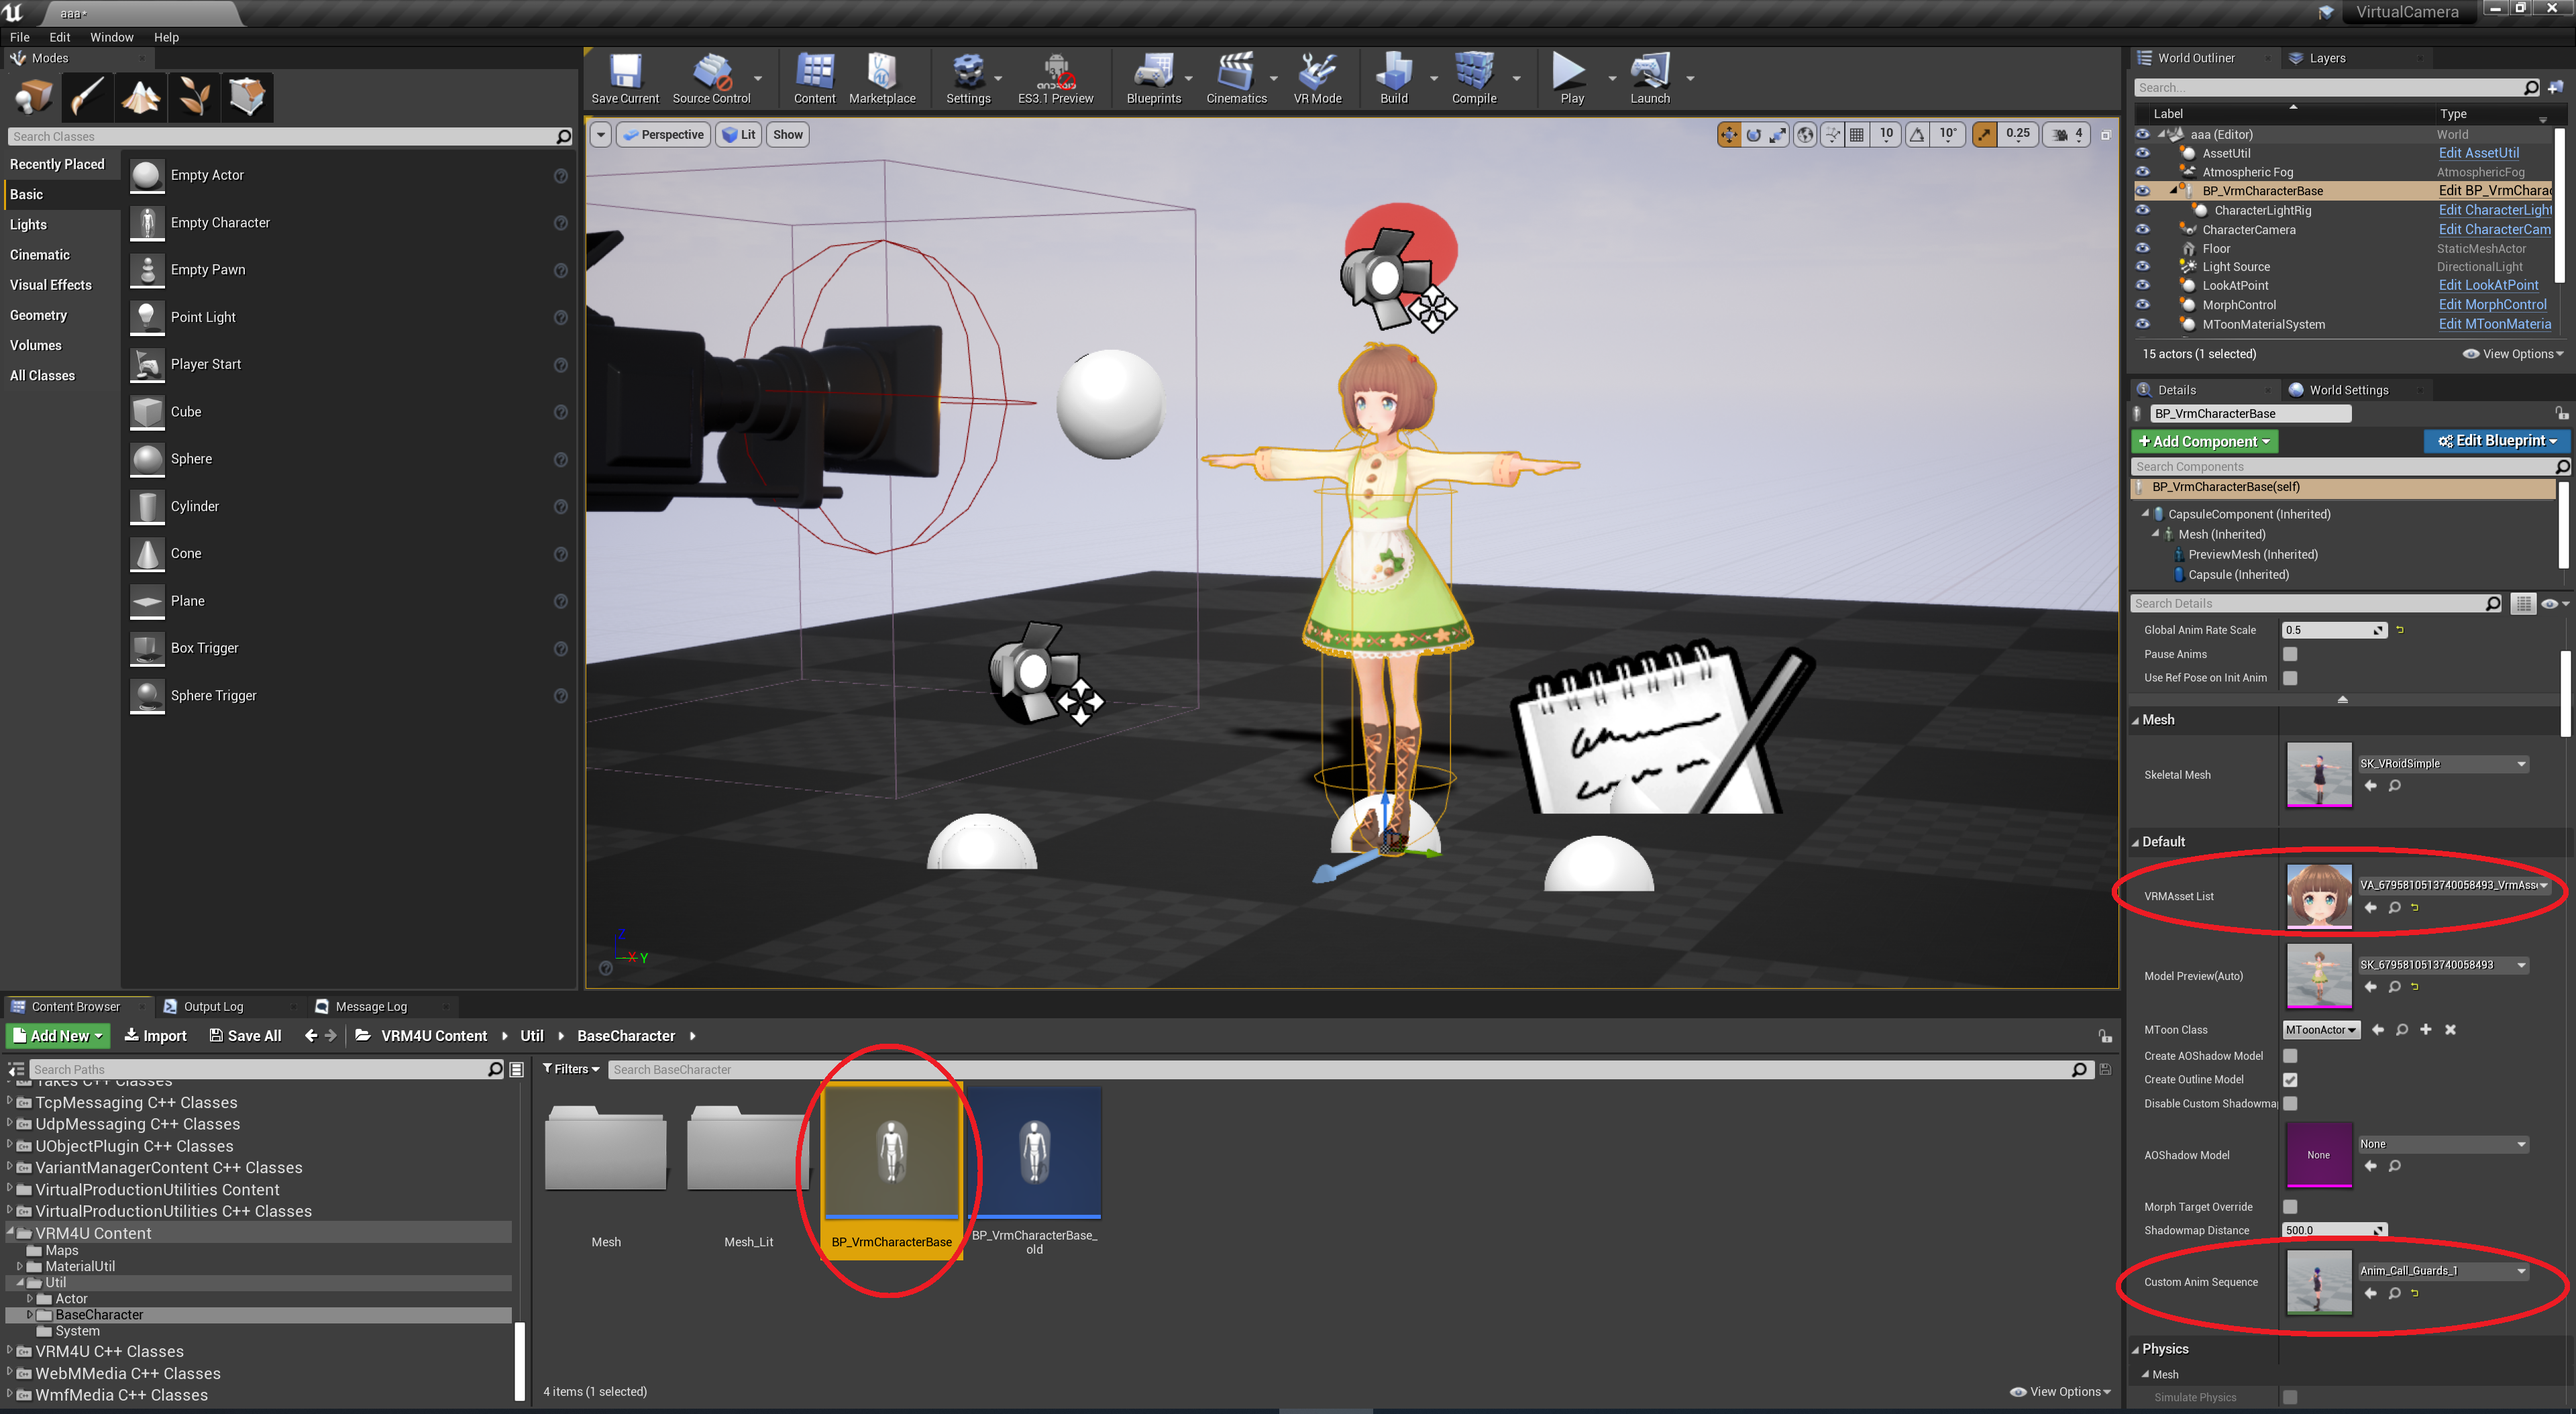
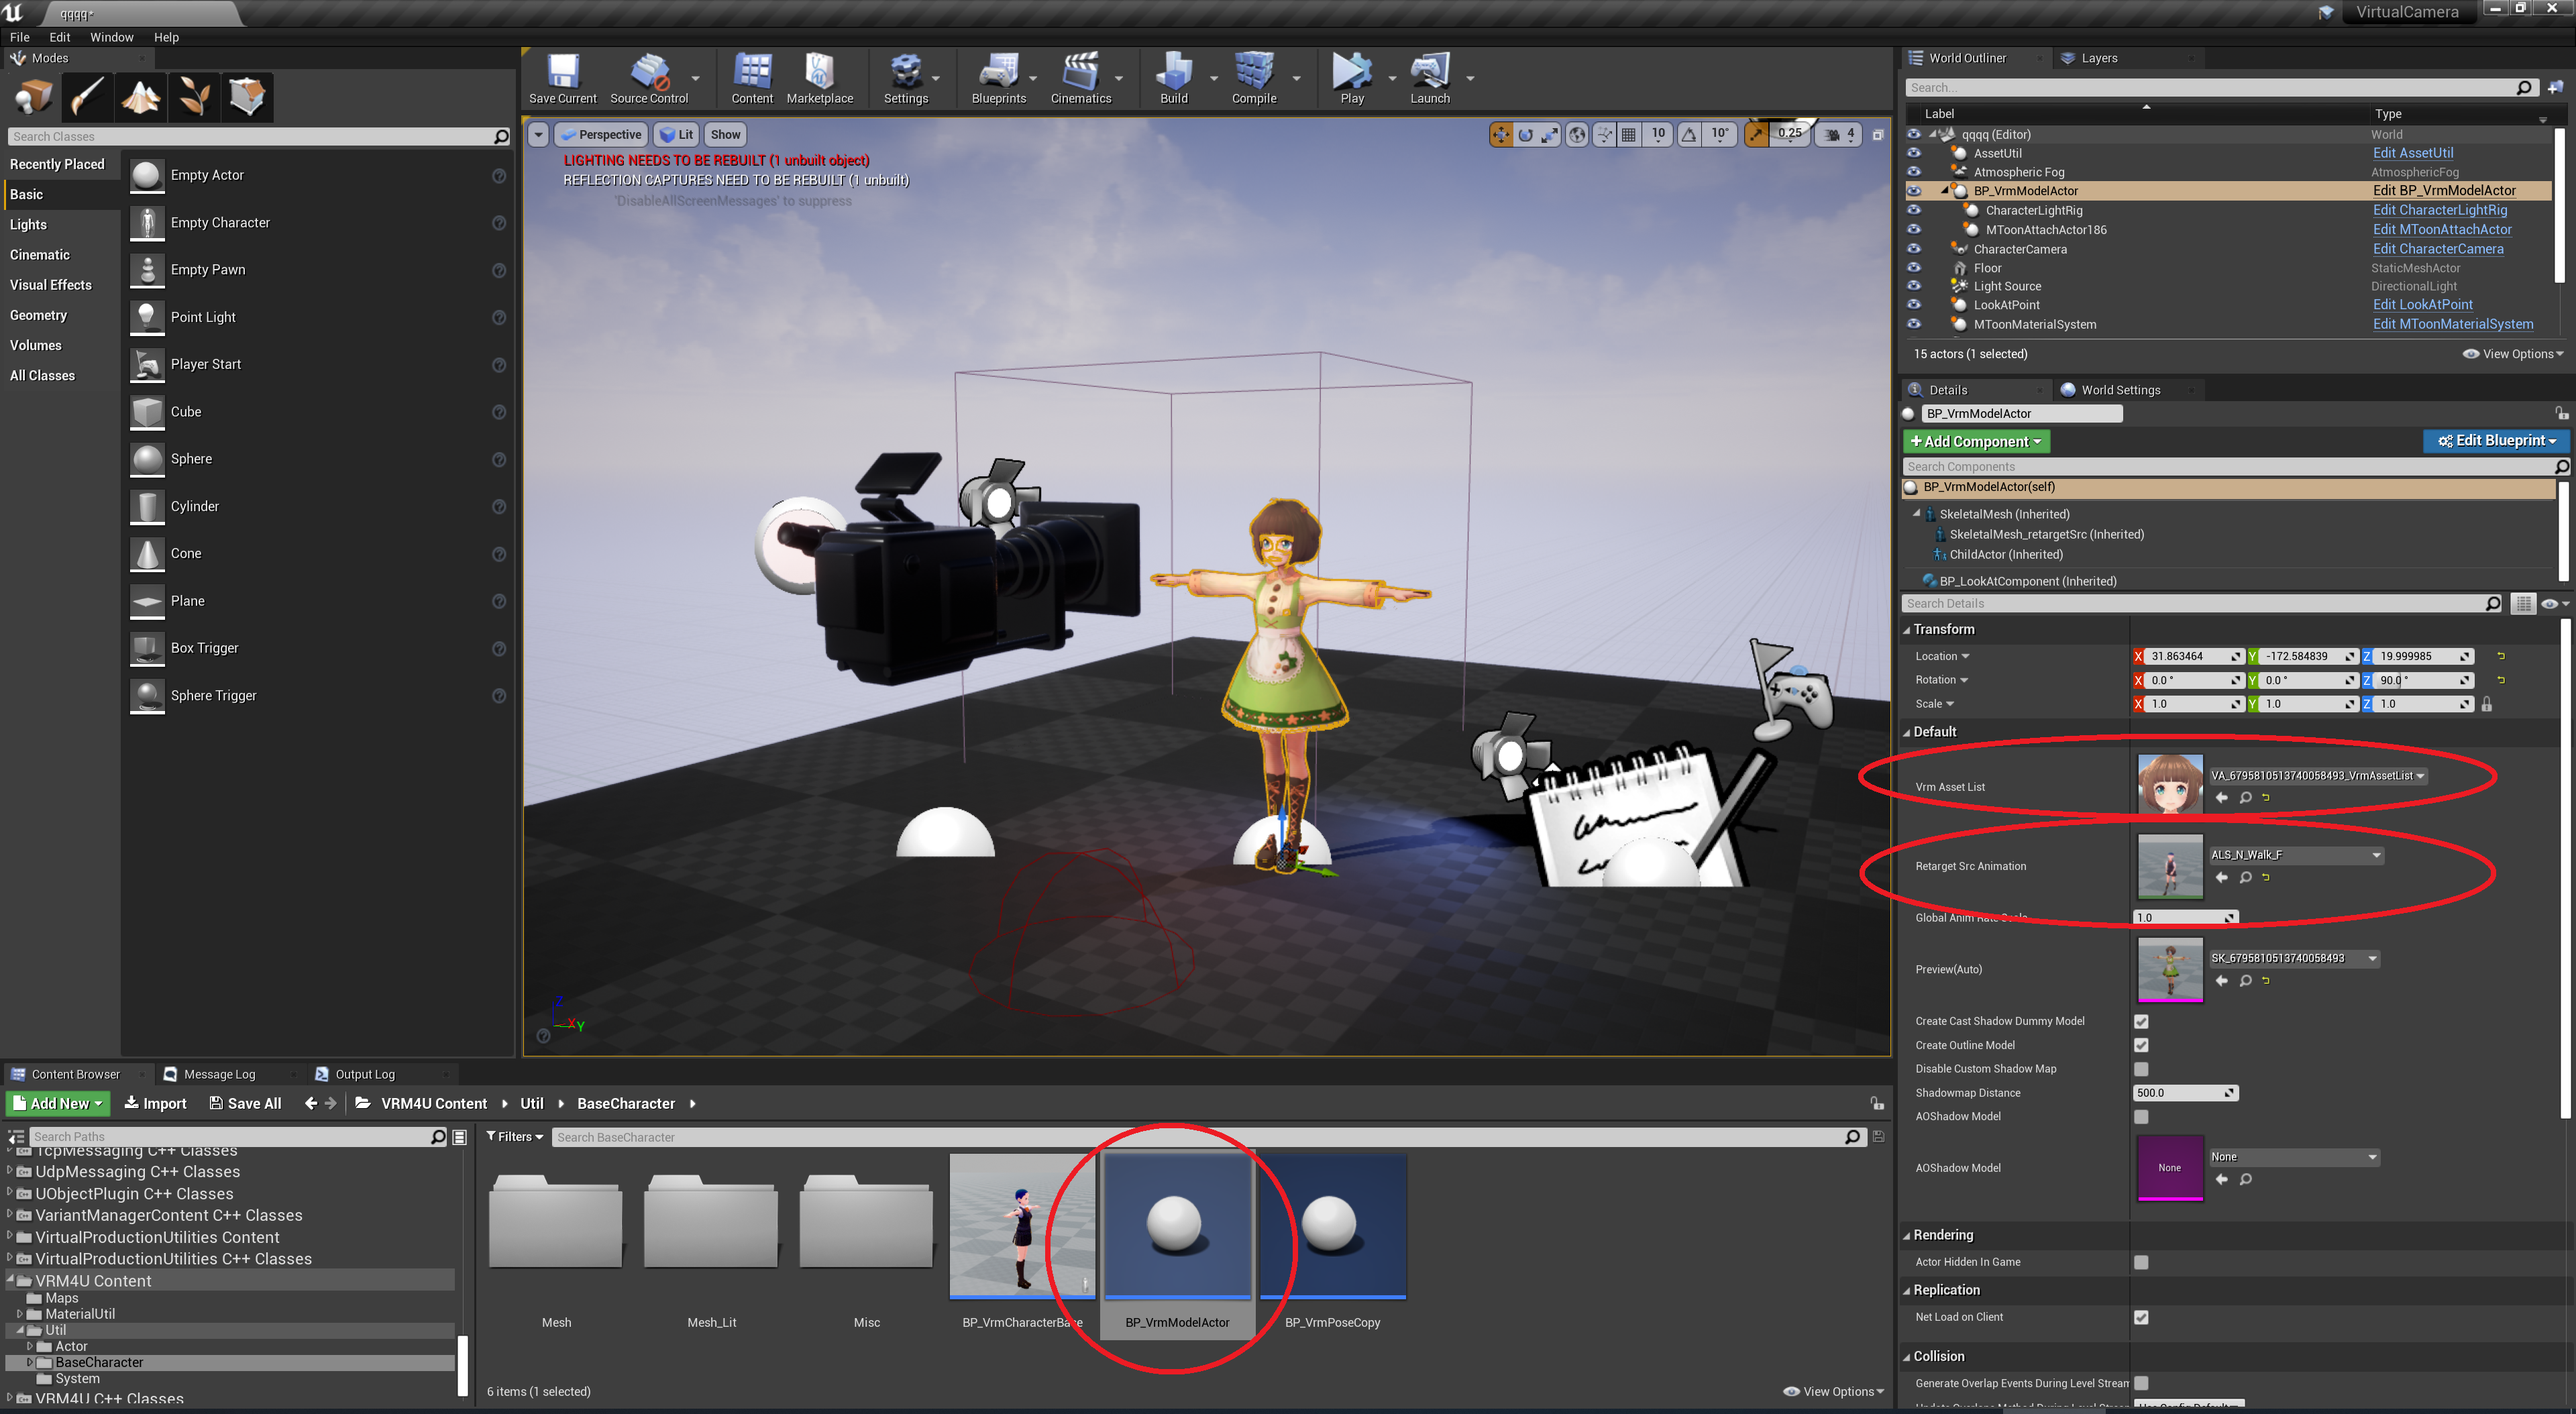
フォトモード導入変更、モーフを新機能版にさしかえ。

diff --git a/VRM4U/02_shortcut.md b/VRM4U/02_shortcut.md
@@ -15,22 +15,42 @@ title: "フォトモードを使う"
 撮影に特化した機能が多数あります。扱えるものは、顔・ボディアニメーション、カメラ、ライティング、視線追従 です。
 
 ----
-## 簡易キャラクタセットアップ
+## アニメーションの準備
 
-`BP_VrmCharacterBase`を配置します。
-下図のように、`VrmAssetList`と`CustomAnimSequence`をセットします。
+利用したいアニメーションを `SKEL_VRoidSimple` にリターゲットします。
+モデルが見つからない場合は表示オプションを確認ください。以下のようにセットします。
 
-**`CustomAnimSequence`にはVRoidSimpleモデルにリターゲットしたアニメーションをセットします！ このモデルはプラグインに同梱されています。**
+**`SKEL_VRoidSimple` です！  撮影対象のモデルではありません！  このアニメーションはすぐ次の解説で使います**
 {: .notice--info}
 
-これでキャラクタセットアップは完了です。
-基礎編で解説した輪郭線やシャドウ、揺れ骨が動作します。
+||
+|-|
+|[![](./assets/images/small/02a_retarget.png)](../assets/images/02a_retarget.png)|
 
-キャラクタを変更したい場合は `VrmAssetList` を差し替えれば完了です。
+このモデルにアニメーションが適用されていればOKです。
+
+||
+|-|
+|[![](./assets/images/small/02a_retarget2.png)](../assets/images/02a_retarget2.png)|
+
+## 簡易キャラクタセットアップ
+
+`BP_VrmModelActor`を配置します。
+使いたいモデルを `VrmAssetList` に、使いたいアニメーション（さきほどリターゲットしたもの）を `RetargetSrcAnimation` にセットします。下図の赤丸の部分です。
 
 ||
 |-|
 |[![](./assets/images/small/02a_s1.png)](../assets/images/02a_s1.png)|
+
+これでキャラクタセットアップは完了です。
+基礎編で解説した輪郭線やシャドウ、揺れ骨が動作します。
+キャラクタを変更したい場合は `VrmAssetList` を差し替えれば完了です。
+
+Playするとアニメーションが適用されます。
+
+|Play中|
+|-|
+|[![](./assets/images/small/02a_play.png)](../assets/images/02a_play.png)|
 
 ----
 
@@ -112,22 +132,57 @@ Playすると、被写界深度が浅く 画角が狭いカメラがセットさ
 ----
 ## 表情変更
 `MorphControl` を配置し `TargetActor` に対象のモデルをセットします。
+「台座+キャラクタモデル」のActorが作られます。これで表情を制御します。
 
-モーフ制御は2つ方法があります。
-
-標準的にはMorphGroupで制御するのが良いでしょう。特殊な表情や複数組み合わせたい場合はMorphTargetで制御可能です。
-
-|方法|用途|
+|配置した状態。台座のみ|対象のモデルをスポイトで選択。台座+モデル|
 |-|-|
-|MorphGroup（VRM標準）|VRMに登録した表情|
-|MorphTarget（モデル固有）|上記+特殊な表情。「＞＜」(目が✕になるもの)や「照れ」など|
+|[![](./assets/images/small/02a_morph1.png)](../assets/images/02a_morph1.png)|[![](./assets/images/small/02a_morph2.png)](../assets/images/02a_morph2.png)|
 
-**Play中のみ反映されます！ エディタ作業中は動作しません。**
+
+`MorphControl`にMorphが一覧表示されます。適当にウェイトを変更してみましょう。コントローラの表情が変わります。
+
+Playすると`TargetActor`に適用されます。コントローラは非表示になります。
+
+|エディタでウェイト調整|Play中。コントローラは消える|
+|-|-|
+|[![](./assets/images/small/02a_morph3.png)](../assets/images/02a_morph3.png)|[![](./assets/images/small/02a_morph4.png)](../assets/images/02a_morph4.png)|
+
+
+
+リストは2つあり、制御方法が異なります。
+
+|リスト項目|制御できる表情パターン|
+|-|-|
+|VRMMorphWeight|VRMに登録した表情|
+|MorphWeight|上記+特殊な表情。「＞＜」(目が✕になるもの)や「照れ」など|
+
+
+**まばたき中に不具合が出る場合は`EnableBlink`をOFFにしてください**
 {: .notice--info}
 
+||
+|-|
+|[![](./assets/images/small/02a_moset.png)](../assets/images/02a_moset.png)|
+
+色々組み合わせて見ましょう。
 
 ||
 |-|
 |[![](./assets/images/small/02a_s4.png)](../assets/images/02a_s4.png)|
 
+
+----
+## 小物を追加する
+
+レベルに配置したモデルをキャラクタにアタッチします。
+`BP_VrmModelActor` を利用していれば、アタッチ時に追従する骨を選択できます。
+
+下図で取り付けたメガネは`J_Bip_C_Head`にアタッチしています。
+モデルの設定は「Movable」「コリジョンなし」です。
+
+||
+|-|
+|[![](./assets/images/small/02a_prop.png)](../assets/images/02a_prop.png)|
+
+モデルによって骨や設定を変更してください。
 
